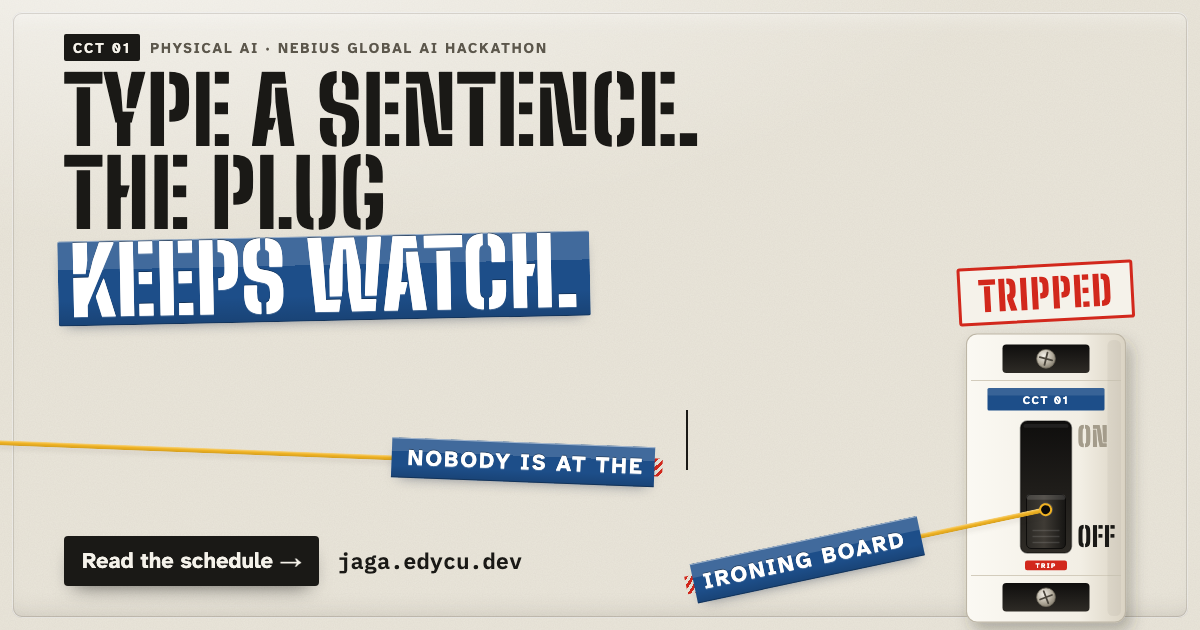
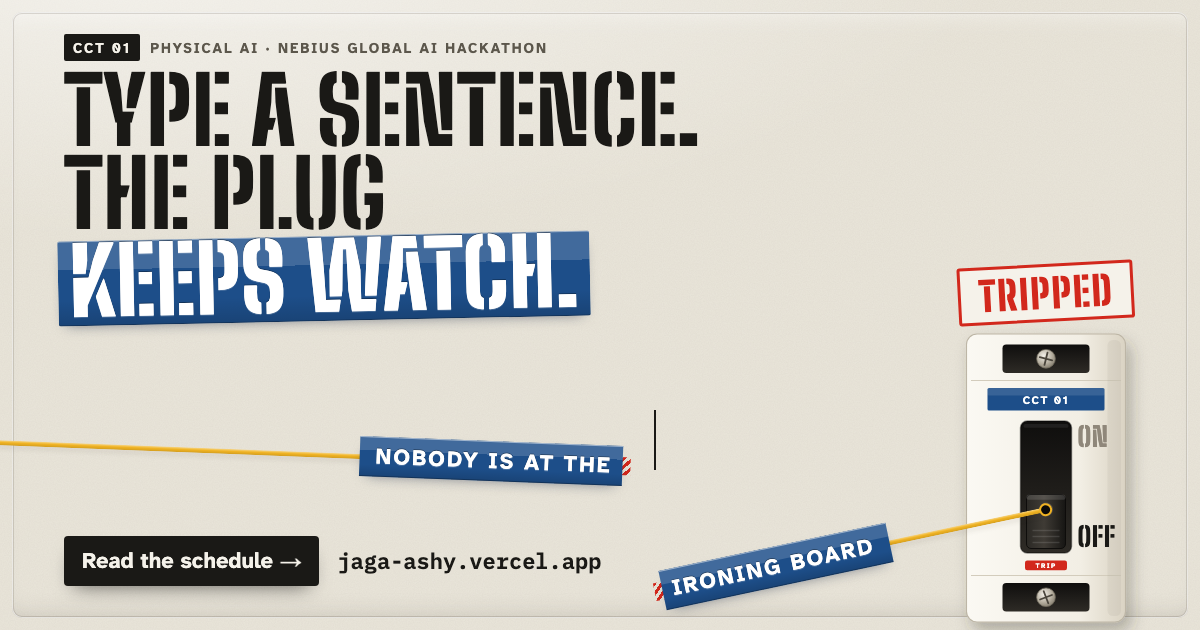
Pages: canonical, link card and deck QR point at the live jaga-ashy.vercel.app until jaga.edycu.dev has a DNS record

Changed region(s): [[0.2775, 0.6937, 0.555, 0.7841], [0.5242, 0.8143, 0.7708, 0.9651], [0.3083, 0.8746, 0.5242, 0.9048]]

diff --git a/docs/pitch/index.html b/docs/pitch/index.html
@@ -7,24 +7,24 @@
 <meta name="description" content="jaga&#x27;s pitch deck: built to turn a typed sentence into a tripwire on a laptop camera, with a plug that only switches OFF.">
 <meta name="author" content="Edy Cu">
 <meta name="theme-color" content="#E9E5DA">
-<link rel="canonical" href="https://jaga.edycu.dev/pitch/">
+<link rel="canonical" href="https://jaga-ashy.vercel.app/pitch/">
 <link rel="icon" href="../assets/icon.svg" type="image/svg+xml">
 <meta property="og:type" content="website">
 <meta property="og:site_name" content="jaga">
 <meta property="og:title" content="jaga · the pitch deck">
 <meta property="og:description" content="Ten slides: jaga is built to turn a typed sentence into a tripwire, and a smart plug that only switches OFF.">
-<meta property="og:url" content="https://jaga.edycu.dev/pitch/">
-<meta property="og:image" content="https://jaga.edycu.dev/assets/page/og.png?v=27053512">
+<meta property="og:url" content="https://jaga-ashy.vercel.app/pitch/">
+<meta property="og:image" content="https://jaga-ashy.vercel.app/assets/page/og.png?v=23816754">
 <meta property="og:image:width" content="1200">
 <meta property="og:image:height" content="630">
 <meta property="og:image:alt" content="jaga: a typed sentence on blue label tape stretched across the page as a yellow wire, tied to a breaker at OFF">
 <meta name="twitter:card" content="summary_large_image">
-<meta name="twitter:image" content="https://jaga.edycu.dev/assets/page/og.png?v=27053512">
+<meta name="twitter:image" content="https://jaga-ashy.vercel.app/assets/page/og.png?v=23816754">
 <!--
   jaga pitch deck, v0.1.0 · untagged. One file: a 1920 × 1080 stage scaled to the window; the enamel ground fills any aspect.
   Keys: → / Space / PageDown next · ← / PageUp previous · Home / End · Esc overview · P presenter notes · C contrast debug.
   Touch: swipe left / right. Print: Cmd/Ctrl+P → Save as PDF → landscape (one slide per page).
-  Images: assets/page/overlay-tripped.webp (QA render of the real overlay), assets/icon.svg. The QR encodes https://jaga.edycu.dev/.
+  Images: assets/page/overlay-tripped.webp (QA render of the real overlay), assets/icon.svg. The QR encodes https://jaga-ashy.vercel.app/.
 -->
 <link rel="preload" href="../assets/fonts/bigshouldersstencil-800-latin.woff2" as="font" type="font/woff2" crossorigin>
 <link rel="preload" href="../assets/fonts/atkinsonhyperlegiblenext-400-700-latin.woff2" as="font" type="font/woff2" crossorigin>
@@ -951,9 +951,9 @@ body.overview { overflow: auto; }
  <ol class="asks">
   <li><b>1</b><span>Read docs/PROTOCOL.md: written before any data.</span></li>
   <li><b>2</b><span>Run <code>pytest</code>: 187 tests, no model or key.</span></li>
-  <li><b>3</b><span>Every measured number traces to DEMO.md.</span></li>
+  <li><b>3</b><span>Measured numbers trace to DEMO.md.</span></li>
  </ol>
- <div class="qrbox"><svg class="qr" viewBox="0 0 29 29" width="360" height="360" role="img" aria-label="QR code for https://jaga.edycu.dev/" shape-rendering="crispEdges"><rect width="29" height="29" fill="#F5F2EA"/><path d="M2 2h1v1h-1zM3 2h1v1h-1zM4 2h1v1h-1zM5 2h1v1h-1zM6 2h1v1h-1zM7 2h1v1h-1zM8 2h1v1h-1zM10 2h1v1h-1zM11 2h1v1h-1zM13 2h1v1h-1zM15 2h1v1h-1zM20 2h1v1h-1zM21 2h1v1h-1zM22 2h1v1h-1zM23 2h1v1h-1zM24 2h1v1h-1zM25 2h1v1h-1zM26 2h1v1h-1zM2 3h1v1h-1zM8 3h1v1h-1zM10 3h1v1h-1zM11 3h1v1h-1zM13 3h1v1h-1zM15 3h1v1h-1zM18 3h1v1h-1zM20 3h1v1h-1zM26 3h1v1h-1zM2 4h1v1h-1zM4 4h1v1h-1zM5 4h1v1h-1zM6 4h1v1h-1zM8 4h1v1h-1zM10 4h1v1h-1zM11 4h1v1h-1zM12 4h1v1h-1zM14 4h1v1h-1zM15 4h1v1h-1zM16 4h1v1h-1zM18 4h1v1h-1zM20 4h1v1h-1zM22 4h1v1h-1zM23 4h1v1h-1zM24 4h1v1h-1zM26 4h1v1h-1zM2 5h1v1h-1zM4 5h1v1h-1zM5 5h1v1h-1zM6 5h1v1h-1zM8 5h1v1h-1zM11 5h1v1h-1zM12 5h1v1h-1zM13 5h1v1h-1zM15 5h1v1h-1zM16 5h1v1h-1zM18 5h1v1h-1zM20 5h1v1h-1zM22 5h1v1h-1zM23 5h1v1h-1zM24 5h1v1h-1zM26 5h1v1h-1zM2 6h1v1h-1zM4 6h1v1h-1zM5 6h1v1h-1zM6 6h1v1h-1zM8 6h1v1h-1zM10 6h1v1h-1zM12 6h1v1h-1zM15 6h1v1h-1zM16 6h1v1h-1zM18 6h1v1h-1zM20 6h1v1h-1zM22 6h1v1h-1zM23 6h1v1h-1zM24 6h1v1h-1zM26 6h1v1h-1zM2 7h1v1h-1zM8 7h1v1h-1zM15 7h1v1h-1zM16 7h1v1h-1zM20 7h1v1h-1zM26 7h1v1h-1zM2 8h1v1h-1zM3 8h1v1h-1zM4 8h1v1h-1zM5 8h1v1h-1zM6 8h1v1h-1zM7 8h1v1h-1zM8 8h1v1h-1zM10 8h1v1h-1zM12 8h1v1h-1zM14 8h1v1h-1zM16 8h1v1h-1zM18 8h1v1h-1zM20 8h1v1h-1zM21 8h1v1h-1zM22 8h1v1h-1zM23 8h1v1h-1zM24 8h1v1h-1zM25 8h1v1h-1zM26 8h1v1h-1zM15 9h1v1h-1zM16 9h1v1h-1zM2 10h1v1h-1zM5 10h1v1h-1zM6 10h1v1h-1zM7 10h1v1h-1zM8 10h1v1h-1zM9 10h1v1h-1zM10 10h1v1h-1zM13 10h1v1h-1zM14 10h1v1h-1zM16 10h1v1h-1zM19 10h1v1h-1zM22 10h1v1h-1zM24 10h1v1h-1zM25 10h1v1h-1zM26 10h1v1h-1zM2 11h1v1h-1zM6 11h1v1h-1zM7 11h1v1h-1zM10 11h1v1h-1zM11 11h1v1h-1zM13 11h1v1h-1zM14 11h1v1h-1zM16 11h1v1h-1zM17 11h1v1h-1zM21 11h1v1h-1zM22 11h1v1h-1zM23 11h1v1h-1zM24 11h1v1h-1zM25 11h1v1h-1zM4 12h1v1h-1zM5 12h1v1h-1zM8 12h1v1h-1zM11 12h1v1h-1zM12 12h1v1h-1zM13 12h1v1h-1zM17 12h1v1h-1zM19 12h1v1h-1zM20 12h1v1h-1zM23 12h1v1h-1zM26 12h1v1h-1zM2 13h1v1h-1zM4 13h1v1h-1zM5 13h1v1h-1zM9 13h1v1h-1zM14 13h1v1h-1zM20 13h1v1h-1zM22 13h1v1h-1zM23 13h1v1h-1zM24 13h1v1h-1zM25 13h1v1h-1zM26 13h1v1h-1zM2 14h1v1h-1zM3 14h1v1h-1zM4 14h1v1h-1zM5 14h1v1h-1zM8 14h1v1h-1zM9 14h1v1h-1zM12 14h1v1h-1zM17 14h1v1h-1zM18 14h1v1h-1zM20 14h1v1h-1zM21 14h1v1h-1zM26 14h1v1h-1zM2 15h1v1h-1zM3 15h1v1h-1zM5 15h1v1h-1zM9 15h1v1h-1zM12 15h1v1h-1zM14 15h1v1h-1zM15 15h1v1h-1zM16 15h1v1h-1zM17 15h1v1h-1zM18 15h1v1h-1zM22 15h1v1h-1zM25 15h1v1h-1zM2 16h1v1h-1zM3 16h1v1h-1zM5 16h1v1h-1zM6 16h1v1h-1zM8 16h1v1h-1zM10 16h1v1h-1zM12 16h1v1h-1zM15 16h1v1h-1zM16 16h1v1h-1zM17 16h1v1h-1zM19 16h1v1h-1zM20 16h1v1h-1zM22 16h1v1h-1zM23 16h1v1h-1zM24 16h1v1h-1zM25 16h1v1h-1zM26 16h1v1h-1zM2 17h1v1h-1zM7 17h1v1h-1zM14 17h1v1h-1zM19 17h1v1h-1zM21 17h1v1h-1zM23 17h1v1h-1zM24 17h1v1h-1zM26 17h1v1h-1zM2 18h1v1h-1zM4 18h1v1h-1zM6 18h1v1h-1zM7 18h1v1h-1zM8 18h1v1h-1zM10 18h1v1h-1zM11 18h1v1h-1zM12 18h1v1h-1zM13 18h1v1h-1zM14 18h1v1h-1zM15 18h1v1h-1zM17 18h1v1h-1zM18 18h1v1h-1zM19 18h1v1h-1zM20 18h1v1h-1zM21 18h1v1h-1zM22 18h1v1h-1zM24 18h1v1h-1zM25 18h1v1h-1zM10 19h1v1h-1zM11 19h1v1h-1zM12 19h1v1h-1zM13 19h1v1h-1zM16 19h1v1h-1zM18 19h1v1h-1zM22 19h1v1h-1zM24 19h1v1h-1zM25 19h1v1h-1zM2 20h1v1h-1zM3 20h1v1h-1zM4 20h1v1h-1zM5 20h1v1h-1zM6 20h1v1h-1zM7 20h1v1h-1zM8 20h1v1h-1zM10 20h1v1h-1zM11 20h1v1h-1zM12 20h1v1h-1zM14 20h1v1h-1zM18 20h1v1h-1zM20 20h1v1h-1zM22 20h1v1h-1zM26 20h1v1h-1zM2 21h1v1h-1zM8 21h1v1h-1zM10 21h1v1h-1zM11 21h1v1h-1zM13 21h1v1h-1zM15 21h1v1h-1zM16 21h1v1h-1zM17 21h1v1h-1zM18 21h1v1h-1zM22 21h1v1h-1zM25 21h1v1h-1zM2 22h1v1h-1zM4 22h1v1h-1zM5 22h1v1h-1zM6 22h1v1h-1zM8 22h1v1h-1zM10 22h1v1h-1zM13 22h1v1h-1zM14 22h1v1h-1zM17 22h1v1h-1zM18 22h1v1h-1zM19 22h1v1h-1zM20 22h1v1h-1zM21 22h1v1h-1zM22 22h1v1h-1zM25 22h1v1h-1zM26 22h1v1h-1zM2 23h1v1h-1zM4 23h1v1h-1zM5 23h1v1h-1zM6 23h1v1h-1zM8 23h1v1h-1zM10 23h1v1h-1zM12 23h1v1h-1zM14 23h1v1h-1zM15 23h1v1h-1zM16 23h1v1h-1zM19 23h1v1h-1zM20 23h1v1h-1zM25 23h1v1h-1zM26 23h1v1h-1zM2 24h1v1h-1zM4 24h1v1h-1zM5 24h1v1h-1zM6 24h1v1h-1zM8 24h1v1h-1zM11 24h1v1h-1zM12 24h1v1h-1zM13 24h1v1h-1zM14 24h1v1h-1zM15 24h1v1h-1zM18 24h1v1h-1zM19 24h1v1h-1zM22 24h1v1h-1zM23 24h1v1h-1zM24 24h1v1h-1zM25 24h1v1h-1zM26 24h1v1h-1zM2 25h1v1h-1zM8 25h1v1h-1zM11 25h1v1h-1zM13 25h1v1h-1zM14 25h1v1h-1zM16 25h1v1h-1zM19 25h1v1h-1zM20 25h1v1h-1zM21 25h1v1h-1zM22 25h1v1h-1zM24 25h1v1h-1zM25 25h1v1h-1zM26 25h1v1h-1zM2 26h1v1h-1zM3 26h1v1h-1zM4 26h1v1h-1zM5 26h1v1h-1zM6 26h1v1h-1zM7 26h1v1h-1zM8 26h1v1h-1zM10 26h1v1h-1zM12 26h1v1h-1zM13 26h1v1h-1zM14 26h1v1h-1zM15 26h1v1h-1zM16 26h1v1h-1zM17 26h1v1h-1zM18 26h1v1h-1zM20 26h1v1h-1zM23 26h1v1h-1zM26 26h1v1h-1z" fill="#1A1916"/></svg><p>jaga.edycu.dev</p><small>github.com/edycutjong/jaga</small></div>
+ <div class="qrbox"><svg class="qr" viewBox="0 0 33 33" width="360" height="360" role="img" aria-label="QR code for https://jaga-ashy.vercel.app/" shape-rendering="crispEdges"><rect width="33" height="33" fill="#F5F2EA"/><path d="M2 2h1v1h-1zM3 2h1v1h-1zM4 2h1v1h-1zM5 2h1v1h-1zM6 2h1v1h-1zM7 2h1v1h-1zM8 2h1v1h-1zM12 2h1v1h-1zM15 2h1v1h-1zM18 2h1v1h-1zM24 2h1v1h-1zM25 2h1v1h-1zM26 2h1v1h-1zM27 2h1v1h-1zM28 2h1v1h-1zM29 2h1v1h-1zM30 2h1v1h-1zM2 3h1v1h-1zM8 3h1v1h-1zM13 3h1v1h-1zM14 3h1v1h-1zM15 3h1v1h-1zM18 3h1v1h-1zM19 3h1v1h-1zM21 3h1v1h-1zM22 3h1v1h-1zM24 3h1v1h-1zM30 3h1v1h-1zM2 4h1v1h-1zM4 4h1v1h-1zM5 4h1v1h-1zM6 4h1v1h-1zM8 4h1v1h-1zM10 4h1v1h-1zM12 4h1v1h-1zM13 4h1v1h-1zM15 4h1v1h-1zM16 4h1v1h-1zM19 4h1v1h-1zM20 4h1v1h-1zM24 4h1v1h-1zM26 4h1v1h-1zM27 4h1v1h-1zM28 4h1v1h-1zM30 4h1v1h-1zM2 5h1v1h-1zM4 5h1v1h-1zM5 5h1v1h-1zM6 5h1v1h-1zM8 5h1v1h-1zM11 5h1v1h-1zM13 5h1v1h-1zM17 5h1v1h-1zM20 5h1v1h-1zM24 5h1v1h-1zM26 5h1v1h-1zM27 5h1v1h-1zM28 5h1v1h-1zM30 5h1v1h-1zM2 6h1v1h-1zM4 6h1v1h-1zM5 6h1v1h-1zM6 6h1v1h-1zM8 6h1v1h-1zM10 6h1v1h-1zM11 6h1v1h-1zM14 6h1v1h-1zM15 6h1v1h-1zM16 6h1v1h-1zM20 6h1v1h-1zM24 6h1v1h-1zM26 6h1v1h-1zM27 6h1v1h-1zM28 6h1v1h-1zM30 6h1v1h-1zM2 7h1v1h-1zM8 7h1v1h-1zM10 7h1v1h-1zM11 7h1v1h-1zM13 7h1v1h-1zM17 7h1v1h-1zM20 7h1v1h-1zM21 7h1v1h-1zM24 7h1v1h-1zM30 7h1v1h-1zM2 8h1v1h-1zM3 8h1v1h-1zM4 8h1v1h-1zM5 8h1v1h-1zM6 8h1v1h-1zM7 8h1v1h-1zM8 8h1v1h-1zM10 8h1v1h-1zM12 8h1v1h-1zM14 8h1v1h-1zM16 8h1v1h-1zM18 8h1v1h-1zM20 8h1v1h-1zM22 8h1v1h-1zM24 8h1v1h-1zM25 8h1v1h-1zM26 8h1v1h-1zM27 8h1v1h-1zM28 8h1v1h-1zM29 8h1v1h-1zM30 8h1v1h-1zM12 9h1v1h-1zM16 9h1v1h-1zM17 9h1v1h-1zM18 9h1v1h-1zM19 9h1v1h-1zM3 10h1v1h-1zM6 10h1v1h-1zM8 10h1v1h-1zM10 10h1v1h-1zM11 10h1v1h-1zM13 10h1v1h-1zM15 10h1v1h-1zM17 10h1v1h-1zM19 10h1v1h-1zM20 10h1v1h-1zM21 10h1v1h-1zM23 10h1v1h-1zM25 10h1v1h-1zM26 10h1v1h-1zM28 10h1v1h-1zM4 11h1v1h-1zM7 11h1v1h-1zM9 11h1v1h-1zM10 11h1v1h-1zM12 11h1v1h-1zM13 11h1v1h-1zM14 11h1v1h-1zM15 11h1v1h-1zM16 11h1v1h-1zM17 11h1v1h-1zM20 11h1v1h-1zM24 11h1v1h-1zM25 11h1v1h-1zM26 11h1v1h-1zM29 11h1v1h-1zM30 11h1v1h-1zM3 12h1v1h-1zM4 12h1v1h-1zM7 12h1v1h-1zM8 12h1v1h-1zM9 12h1v1h-1zM11 12h1v1h-1zM15 12h1v1h-1zM18 12h1v1h-1zM19 12h1v1h-1zM22 12h1v1h-1zM23 12h1v1h-1zM26 12h1v1h-1zM28 12h1v1h-1zM30 12h1v1h-1zM2 13h1v1h-1zM4 13h1v1h-1zM5 13h1v1h-1zM9 13h1v1h-1zM10 13h1v1h-1zM11 13h1v1h-1zM16 13h1v1h-1zM18 13h1v1h-1zM19 13h1v1h-1zM20 13h1v1h-1zM23 13h1v1h-1zM25 13h1v1h-1zM27 13h1v1h-1zM29 13h1v1h-1zM30 13h1v1h-1zM6 14h1v1h-1zM8 14h1v1h-1zM10 14h1v1h-1zM13 14h1v1h-1zM15 14h1v1h-1zM17 14h1v1h-1zM18 14h1v1h-1zM19 14h1v1h-1zM20 14h1v1h-1zM21 14h1v1h-1zM22 14h1v1h-1zM25 14h1v1h-1zM30 14h1v1h-1zM2 15h1v1h-1zM4 15h1v1h-1zM5 15h1v1h-1zM9 15h1v1h-1zM10 15h1v1h-1zM11 15h1v1h-1zM12 15h1v1h-1zM13 15h1v1h-1zM14 15h1v1h-1zM17 15h1v1h-1zM19 15h1v1h-1zM20 15h1v1h-1zM24 15h1v1h-1zM26 15h1v1h-1zM28 15h1v1h-1zM30 15h1v1h-1zM4 16h1v1h-1zM5 16h1v1h-1zM7 16h1v1h-1zM8 16h1v1h-1zM9 16h1v1h-1zM10 16h1v1h-1zM13 16h1v1h-1zM14 16h1v1h-1zM20 16h1v1h-1zM24 16h1v1h-1zM26 16h1v1h-1zM29 16h1v1h-1zM30 16h1v1h-1zM2 17h1v1h-1zM3 17h1v1h-1zM6 17h1v1h-1zM7 17h1v1h-1zM9 17h1v1h-1zM10 17h1v1h-1zM17 17h1v1h-1zM19 17h1v1h-1zM20 17h1v1h-1zM21 17h1v1h-1zM24 17h1v1h-1zM25 17h1v1h-1zM27 17h1v1h-1zM30 17h1v1h-1zM2 18h1v1h-1zM3 18h1v1h-1zM6 18h1v1h-1zM8 18h1v1h-1zM10 18h1v1h-1zM14 18h1v1h-1zM16 18h1v1h-1zM17 18h1v1h-1zM18 18h1v1h-1zM20 18h1v1h-1zM22 18h1v1h-1zM23 18h1v1h-1zM30 18h1v1h-1zM2 19h1v1h-1zM4 19h1v1h-1zM6 19h1v1h-1zM9 19h1v1h-1zM10 19h1v1h-1zM11 19h1v1h-1zM13 19h1v1h-1zM15 19h1v1h-1zM16 19h1v1h-1zM19 19h1v1h-1zM20 19h1v1h-1zM24 19h1v1h-1zM25 19h1v1h-1zM26 19h1v1h-1zM28 19h1v1h-1zM30 19h1v1h-1zM6 20h1v1h-1zM7 20h1v1h-1zM8 20h1v1h-1zM9 20h1v1h-1zM10 20h1v1h-1zM12 20h1v1h-1zM15 20h1v1h-1zM17 20h1v1h-1zM19 20h1v1h-1zM20 20h1v1h-1zM25 20h1v1h-1zM26 20h1v1h-1zM28 20h1v1h-1zM30 20h1v1h-1zM4 21h1v1h-1zM9 21h1v1h-1zM11 21h1v1h-1zM12 21h1v1h-1zM13 21h1v1h-1zM14 21h1v1h-1zM15 21h1v1h-1zM16 21h1v1h-1zM17 21h1v1h-1zM18 21h1v1h-1zM19 21h1v1h-1zM20 21h1v1h-1zM21 21h1v1h-1zM22 21h1v1h-1zM25 21h1v1h-1zM27 21h1v1h-1zM30 21h1v1h-1zM2 22h1v1h-1zM3 22h1v1h-1zM5 22h1v1h-1zM7 22h1v1h-1zM8 22h1v1h-1zM10 22h1v1h-1zM14 22h1v1h-1zM16 22h1v1h-1zM19 22h1v1h-1zM22 22h1v1h-1zM23 22h1v1h-1zM24 22h1v1h-1zM25 22h1v1h-1zM26 22h1v1h-1zM27 22h1v1h-1zM29 22h1v1h-1zM30 22h1v1h-1zM10 23h1v1h-1zM12 23h1v1h-1zM14 23h1v1h-1zM17 23h1v1h-1zM18 23h1v1h-1zM20 23h1v1h-1zM21 23h1v1h-1zM22 23h1v1h-1zM26 23h1v1h-1zM28 23h1v1h-1zM29 23h1v1h-1zM30 23h1v1h-1zM2 24h1v1h-1zM3 24h1v1h-1zM4 24h1v1h-1zM5 24h1v1h-1zM6 24h1v1h-1zM7 24h1v1h-1zM8 24h1v1h-1zM13 24h1v1h-1zM15 24h1v1h-1zM17 24h1v1h-1zM19 24h1v1h-1zM21 24h1v1h-1zM22 24h1v1h-1zM24 24h1v1h-1zM26 24h1v1h-1zM30 24h1v1h-1zM2 25h1v1h-1zM8 25h1v1h-1zM13 25h1v1h-1zM14 25h1v1h-1zM16 25h1v1h-1zM18 25h1v1h-1zM19 25h1v1h-1zM21 25h1v1h-1zM22 25h1v1h-1zM26 25h1v1h-1zM27 25h1v1h-1zM29 25h1v1h-1zM30 25h1v1h-1zM2 26h1v1h-1zM4 26h1v1h-1zM5 26h1v1h-1zM6 26h1v1h-1zM8 26h1v1h-1zM10 26h1v1h-1zM13 26h1v1h-1zM15 26h1v1h-1zM16 26h1v1h-1zM20 26h1v1h-1zM21 26h1v1h-1zM22 26h1v1h-1zM23 26h1v1h-1zM24 26h1v1h-1zM25 26h1v1h-1zM26 26h1v1h-1zM30 26h1v1h-1zM2 27h1v1h-1zM4 27h1v1h-1zM5 27h1v1h-1zM6 27h1v1h-1zM8 27h1v1h-1zM11 27h1v1h-1zM13 27h1v1h-1zM16 27h1v1h-1zM18 27h1v1h-1zM20 27h1v1h-1zM25 27h1v1h-1zM28 27h1v1h-1zM29 27h1v1h-1zM2 28h1v1h-1zM4 28h1v1h-1zM5 28h1v1h-1zM6 28h1v1h-1zM8 28h1v1h-1zM12 28h1v1h-1zM13 28h1v1h-1zM15 28h1v1h-1zM16 28h1v1h-1zM18 28h1v1h-1zM19 28h1v1h-1zM21 28h1v1h-1zM22 28h1v1h-1zM23 28h1v1h-1zM27 28h1v1h-1zM29 28h1v1h-1zM30 28h1v1h-1zM2 29h1v1h-1zM8 29h1v1h-1zM10 29h1v1h-1zM11 29h1v1h-1zM13 29h1v1h-1zM14 29h1v1h-1zM15 29h1v1h-1zM16 29h1v1h-1zM19 29h1v1h-1zM20 29h1v1h-1zM22 29h1v1h-1zM25 29h1v1h-1zM27 29h1v1h-1zM29 29h1v1h-1zM30 29h1v1h-1zM2 30h1v1h-1zM3 30h1v1h-1zM4 30h1v1h-1zM5 30h1v1h-1zM6 30h1v1h-1zM7 30h1v1h-1zM8 30h1v1h-1zM13 30h1v1h-1zM14 30h1v1h-1zM17 30h1v1h-1zM18 30h1v1h-1zM19 30h1v1h-1zM21 30h1v1h-1zM22 30h1v1h-1zM26 30h1v1h-1zM29 30h1v1h-1z" fill="#1A1916"/></svg><p>jaga-ashy.vercel.app</p><small>github.com/edycutjong/jaga</small></div>
  <p class="close"><span class="tape">jaga</span> keeps watch.</p>
  <footer class="sfoot"><span>10 · the ask</span><span class="ver">10 / 10 · v0.1.0 · untagged</span></footer>
  <aside class="speaker-notes"><p>Our ask is simple: hold us to the protocol. The numbers will land in DEMO.md as the recordings are made; none is estimated.</p><p>jaga means "keep watch". Thank you for watching it.</p></aside>

diff --git a/docs/index.html b/docs/index.html
@@ -7,22 +7,22 @@
 <meta name="description" content="jaga is built to turn a typed sentence into a tripwire: Nemotron 3 Super compiles it, Cosmos-Embed1 watches a laptop camera, a smart plug switches OFF.">
 <meta name="author" content="Edy Cu">
 <meta name="theme-color" content="#E9E5DA">
-<link rel="canonical" href="https://jaga.edycu.dev/">
+<link rel="canonical" href="https://jaga-ashy.vercel.app/">
 <link rel="icon" href="assets/icon.svg" type="image/svg+xml">
 <link rel="apple-touch-icon" href="assets/icon-512.png">
 <meta property="og:type" content="website">
 <meta property="og:site_name" content="jaga">
 <meta property="og:title" content="jaga — type a sentence; the plug keeps watch">
 <meta property="og:description" content="Built to turn a typed sentence into a tripwire: Cosmos-Embed1 on the laptop, a smart plug that only switches OFF.">
-<meta property="og:url" content="https://jaga.edycu.dev/">
-<meta property="og:image" content="https://jaga.edycu.dev/assets/page/og.png?v=27053512">
+<meta property="og:url" content="https://jaga-ashy.vercel.app/">
+<meta property="og:image" content="https://jaga-ashy.vercel.app/assets/page/og.png?v=23816754">
 <meta property="og:image:width" content="1200">
 <meta property="og:image:height" content="630">
 <meta property="og:image:alt" content="jaga: a typed sentence on blue label tape stretched across the page as a yellow wire, tied to a breaker at OFF">
 <meta name="twitter:card" content="summary_large_image">
 <meta name="twitter:title" content="jaga — type a sentence; the plug keeps watch">
 <meta name="twitter:description" content="Built to turn a typed sentence into a tripwire: Cosmos-Embed1 on the laptop, a smart plug that only switches OFF.">
-<meta name="twitter:image" content="https://jaga.edycu.dev/assets/page/og.png?v=27053512">
+<meta name="twitter:image" content="https://jaga-ashy.vercel.app/assets/page/og.png?v=23816754">
 <meta name="twitter:image:alt" content="jaga: a typed sentence on blue label tape stretched across the page as a yellow wire, tied to a breaker at OFF">
 <link rel="preload" href="assets/fonts/bigshouldersstencil-800-latin.woff2" as="font" type="font/woff2" crossorigin>
 <link rel="preload" href="assets/fonts/atkinsonhyperlegiblenext-400-700-latin.woff2" as="font" type="font/woff2" crossorigin>
